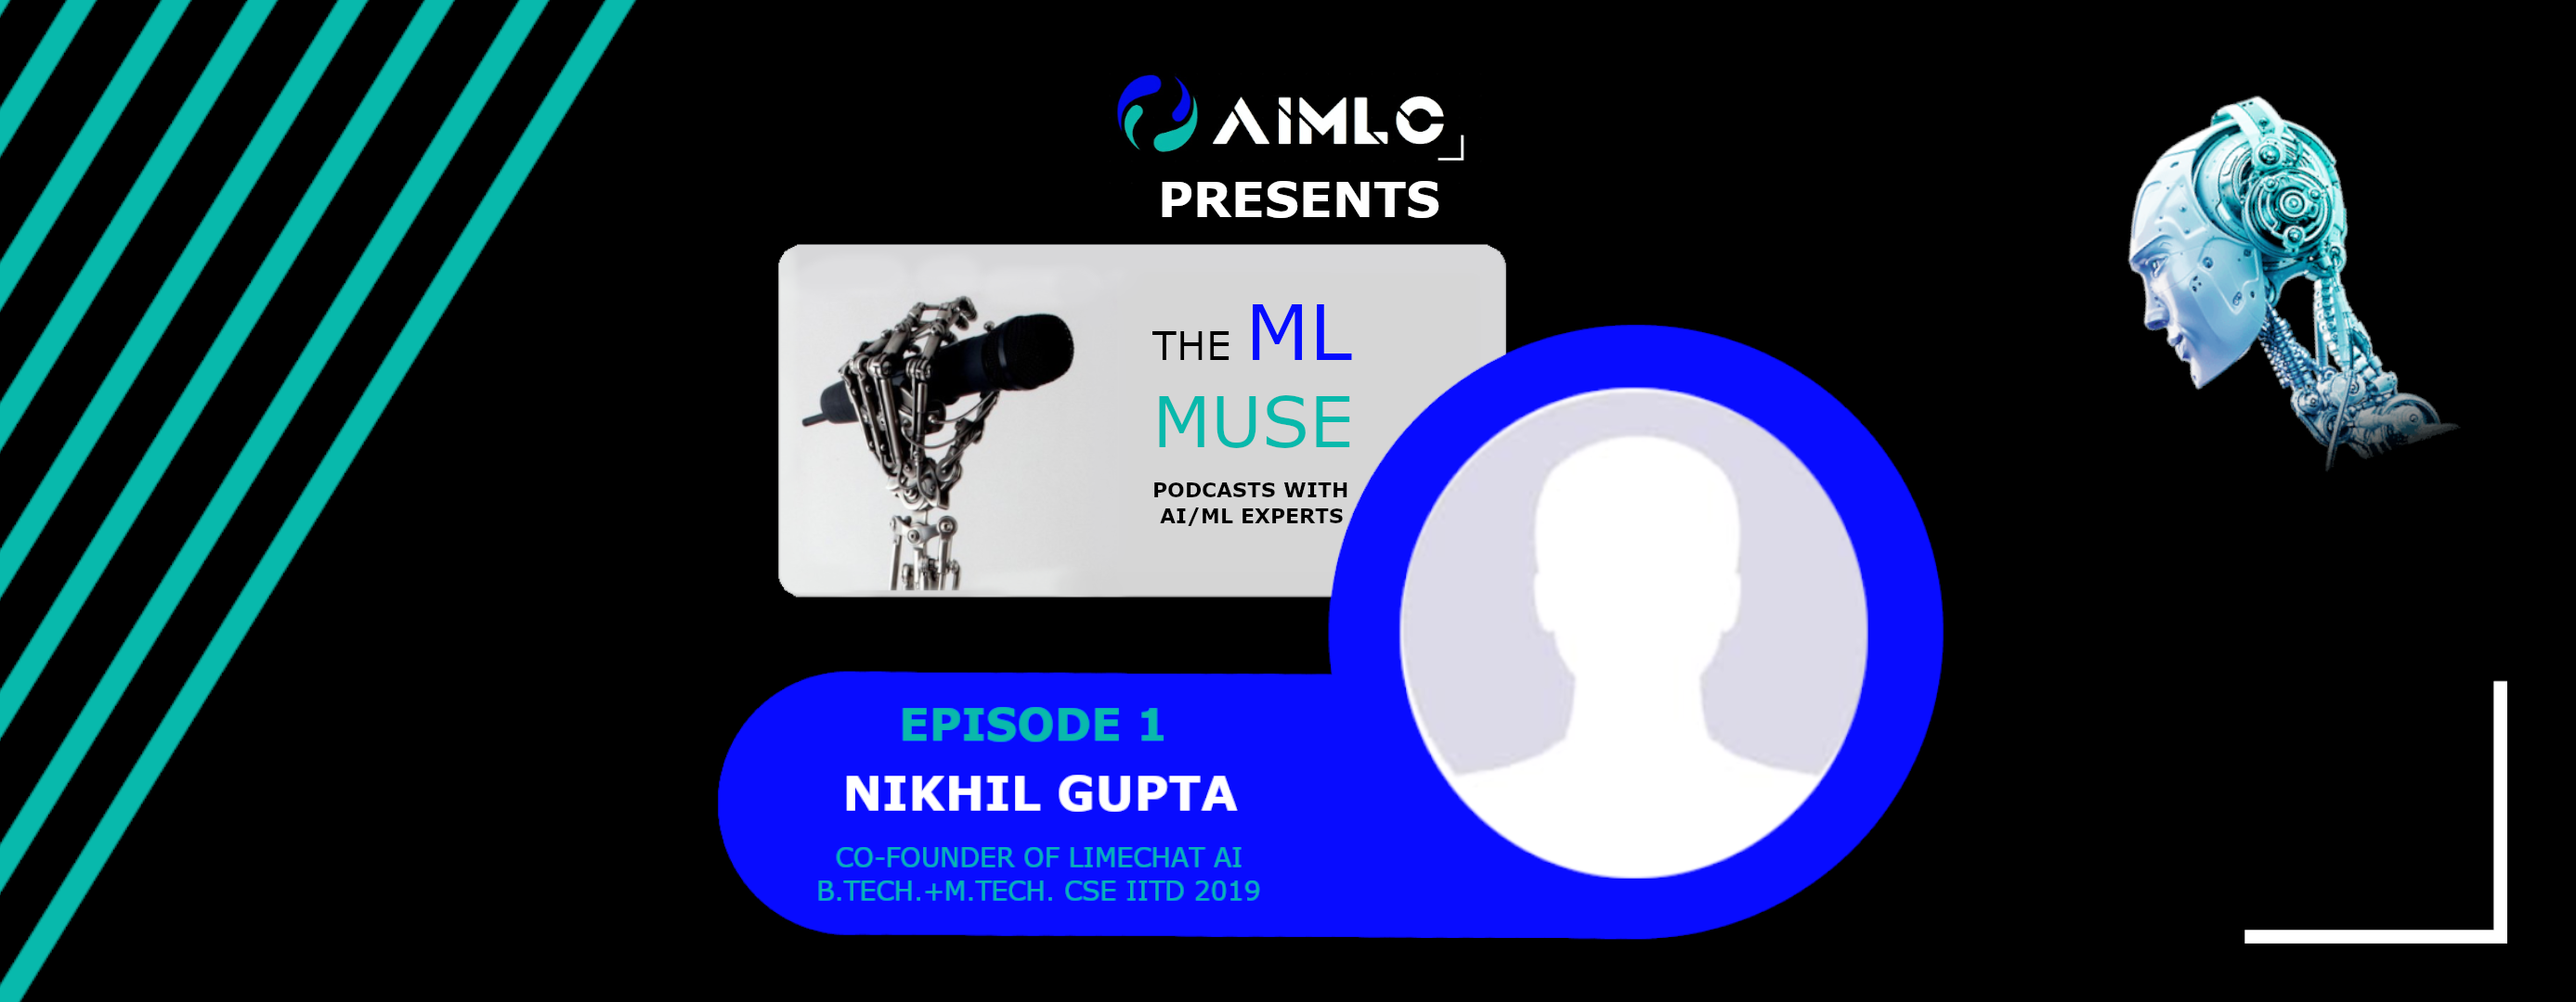
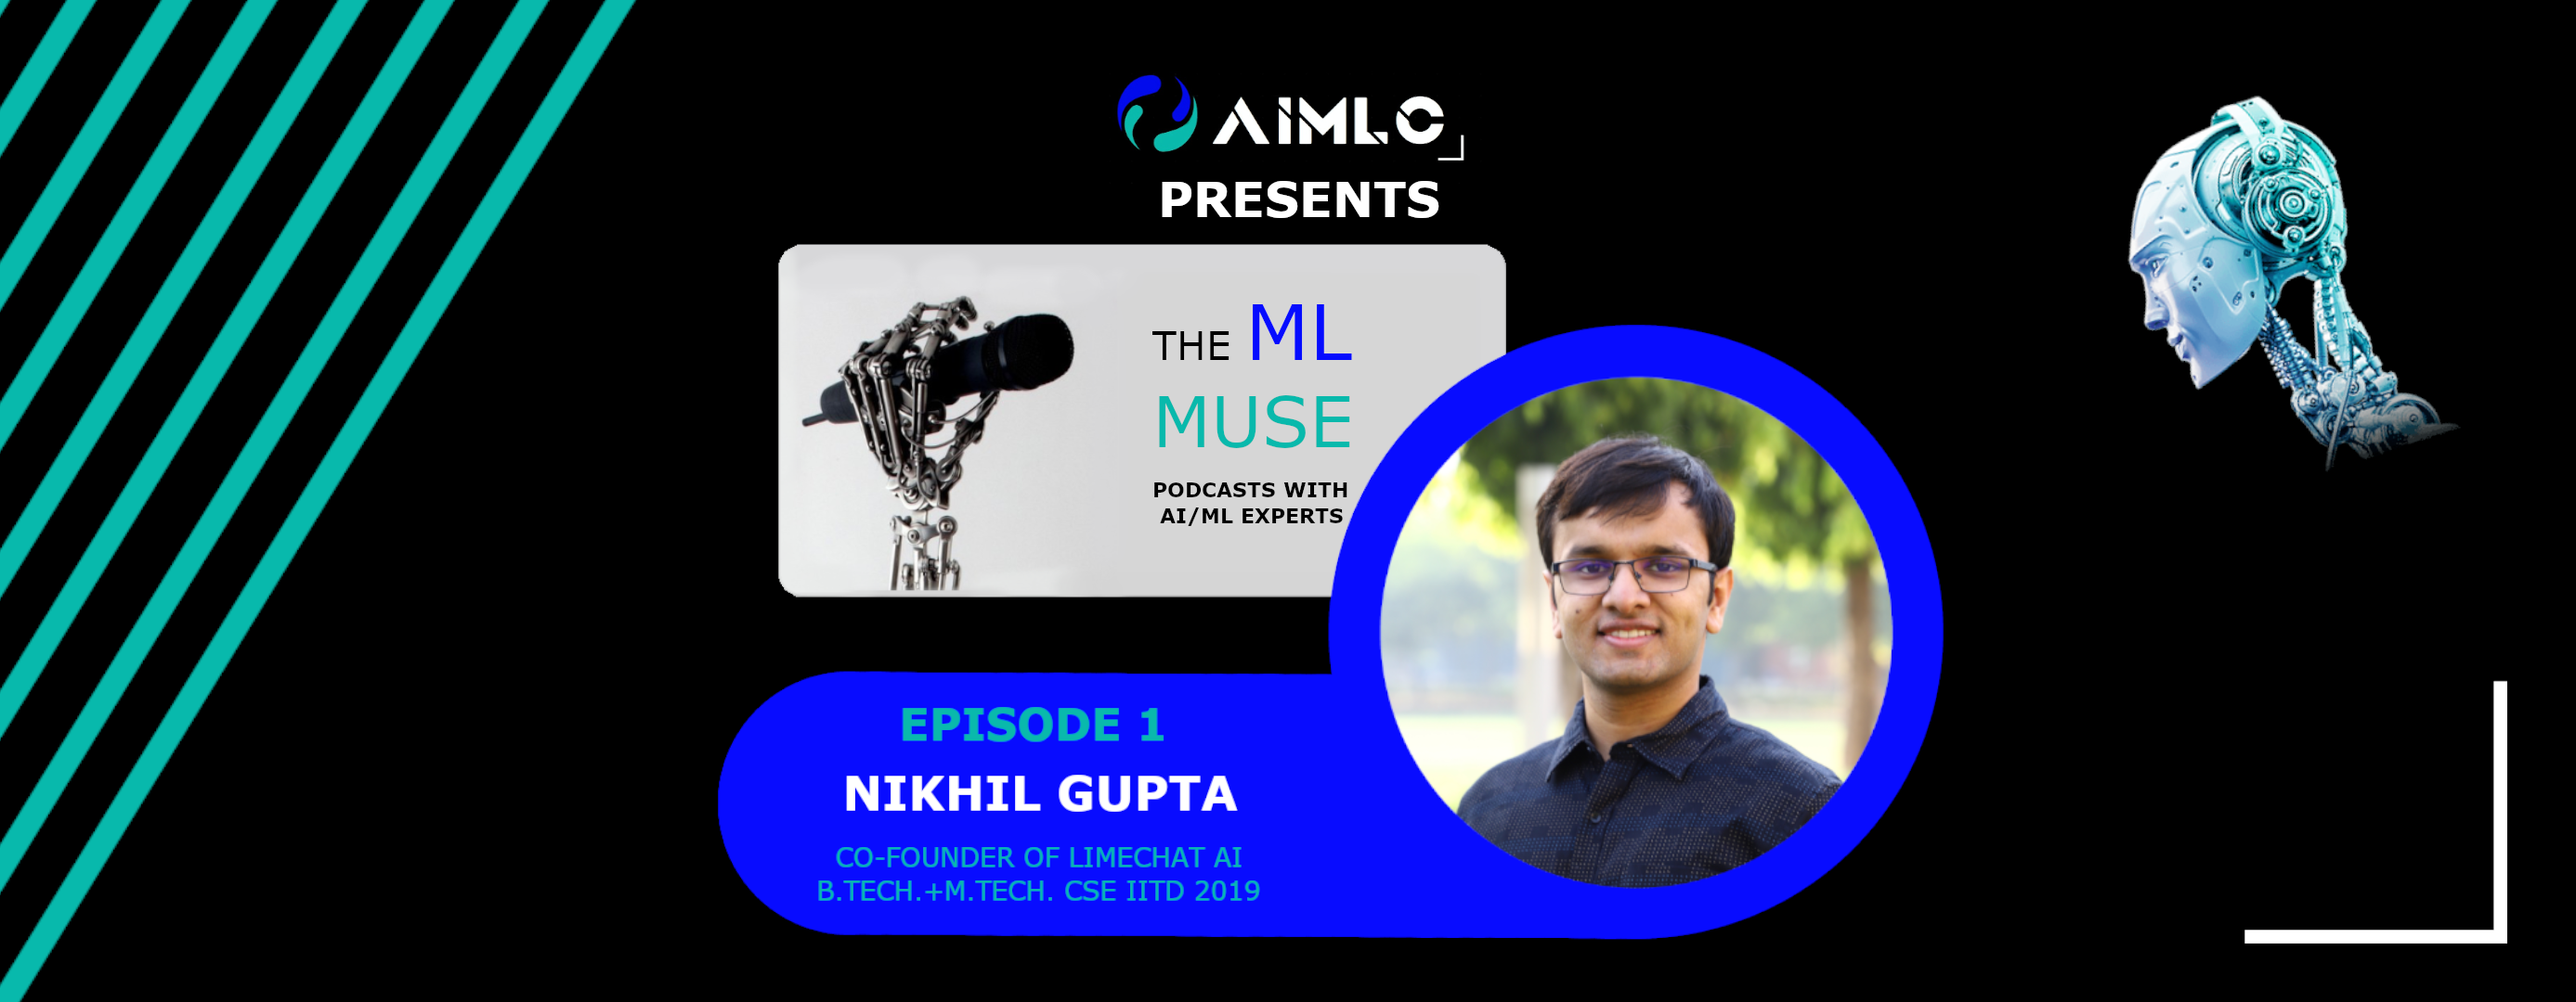
First Podcast Release Test 1

Changed region(s): [[0.527, 0.3667, 0.7441, 0.8861]]

diff --git a/src/components/footer.js b/src/components/footer.js
@@ -1,15 +1,15 @@
 import React from "react"
 import {Link} from "gatsby"
 import { RiHeart2Line } from "react-icons/ri";
-import {AiFillInstagram, AiFillGithub, AiFillLinkedin} from "react-icons/ai";
+import {AiFillInstagram, AiFillYoutube, AiFillLinkedin} from "react-icons/ai";
 
 const Footer = () => (
   <footer className="site-footer">
     <div className="container">
       <ul>
         <li><a target="_blank" href="https://www.instagram.com/aimlc.iitd/"><span className="icon"><AiFillInstagram /></span></a></li>
+        <li><a target="_blank" href="https://www.youtube.com/channel/UCYZexisW1MxuVkPyiybQoxg"><span className="icon"><AiFillYoutube /></span></a></li>
         <li><a target="_blank" href="https://www.linkedin.com/in/ramneetsinghiitd/"><span className="icon"><AiFillLinkedin /></span></a></li>        
-        <li><a target="_blank" href="https://github.com/Ramneet-Singh"><span className="icon"><AiFillGithub /></span></a></li>
       </ul>
       <p>Website for AIMLC IIT Delhi, Made with <span className="icon -love"><RiHeart2Line/></span> by <a target="_blank" href="https://www.linkedin.com/in/ramneetsinghiitd/" className="author-name">Ramneet Singh</a></p>
     </div>

diff --git a/src/content/posts/2020-12-13-the-ml-muse-ep-1-mr-nikhil-gupta.md b/src/content/posts/2020-12-13-the-ml-muse-ep-1-mr-nikhil-gupta.md
@@ -8,6 +8,9 @@ description: "The ML Muse Podcast Episode 1: A podcast where people talk about
   guest Mr Nikhil Gupta, founder of LimeChat, IIT Delhi 2019 CSE Graduate."
 featuredImage: /assets/podcast_post_landscape.png
 ---
+
 Hello! If this is the first time you're hearing about us, do check out the [About Us](https://aimlc-iitd.netlify.app/about) page. Welcome to the first episode of **The ML Muse Podcast**, where we speak to people who are innovating, creating in and stretching the boundaries of the fields of AI and ML. We bring you their journeys entering and working in this area and hope that you learn as much from listening to them as we do.
 
 For our very first episode (**drumrolls**), Mr [Nikhil Gupta](https://www.linkedin.com/in/nikhilgupta1997/) has been gracious enough to speak with us. Nikhil, who is a 2019 CSE graduate from IIT Delhi, is active in the IITD community, and personally, is someone we all admire. For those of you who are not familiar, I will attempt to explain why we're so excited to have him on. Nikhil is the co-founder of a startup called [LimeChat](https://limechat.ai/). A leader in AI Conversational Commerce, they're building India's first level 3 chatbot technology. He also had an illustrious student life at IITD, interning at Tower Research Capital, CMU and EPFL, among various other activities. His diverse background and achievements, with a deep passion for learning and helping people out (we can attest), make him the perfect guest. Without further ado, I present to you, Mr Nikhil Gupta in conversation with [Ramneet Singh](https://www.linkedin.com/in/ramneetsinghiitd/).
+
+<iframe width="560" height="315" src="https://www.youtube.com/embed/VRw-rvl5ick" frameborder="0" allow="accelerometer; autoplay; clipboard-write; encrypted-media; gyroscope; picture-in-picture" allowfullscreen></iframe>

diff --git a/src/content/members/yashasvi_ghadale_2020--12--13.md b/src/content/members/yashasvi_ghadale_2020--12--13.md
@@ -1,0 +1,8 @@
+---
+template: member
+first_name: Yashasvi
+last_name: Ghadale
+role: Core Team Member
+profileImage: /assets/Yashasvi_Profile_Pic.jpg
+date: 2020-12-13 18:36
+---
